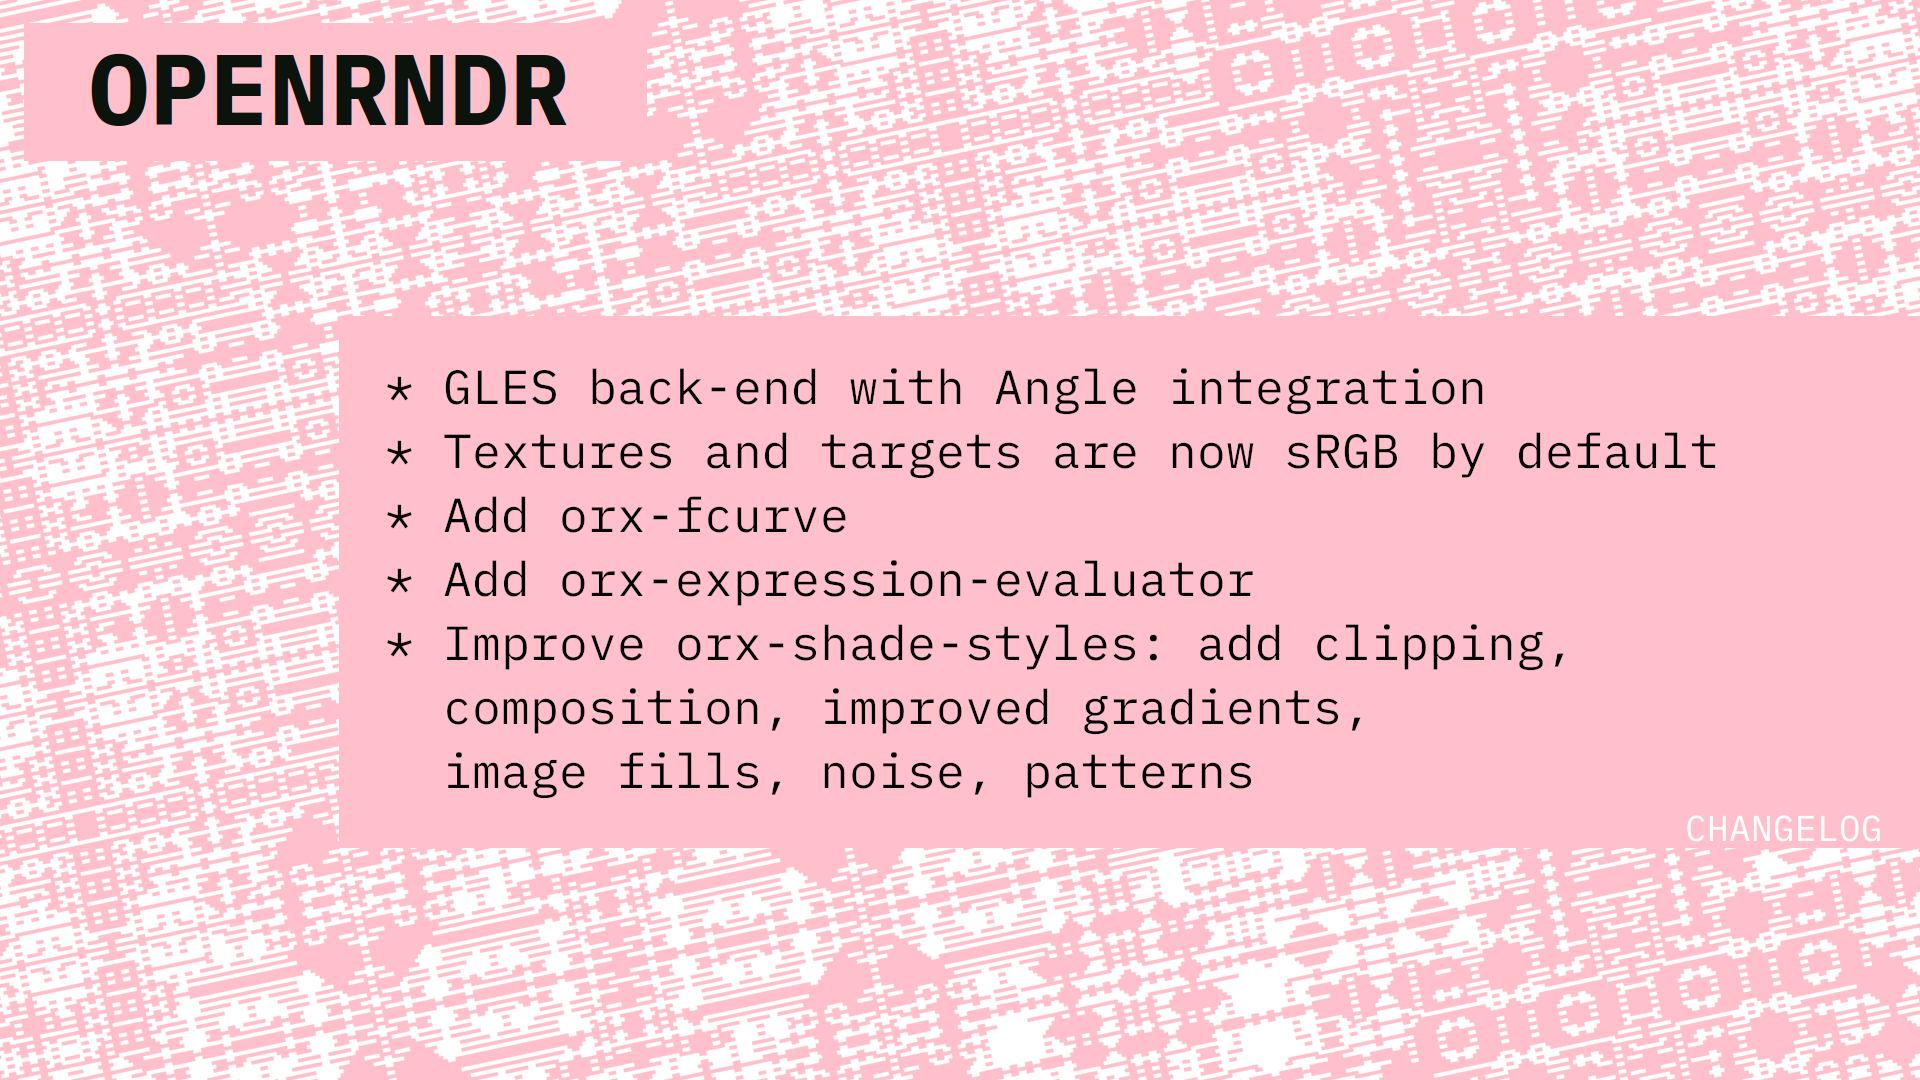
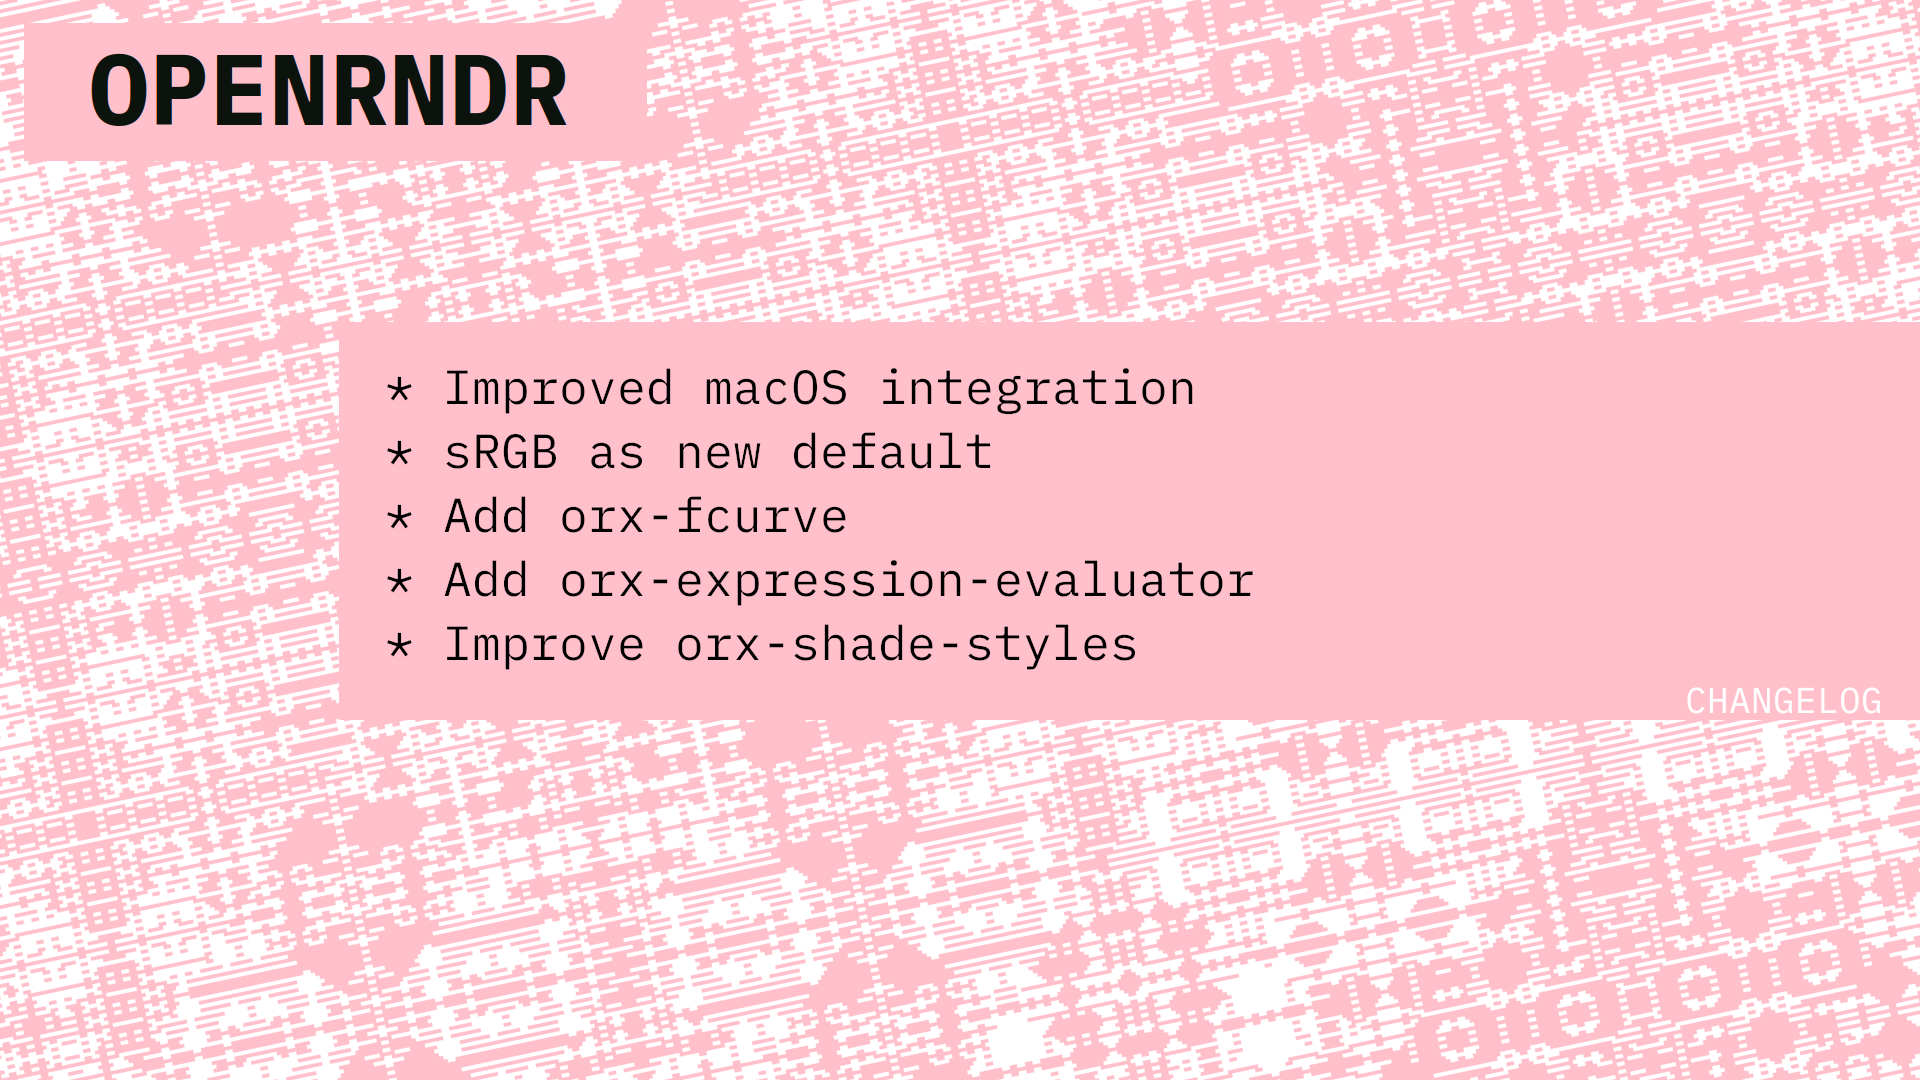
Add OPENRNDR

diff --git a/openrndr/openrndr.md b/openrndr/openrndr.md
@@ -8,7 +8,8 @@
 
 **Playful for prototypes. Serious for production.**
 
-OPENRNDR is an open source framework for creative coding, written in Kotlin that simplifies writing real-time interactive software.
+OPENRNDR is a Kotlin cross-platform open source framework for creative coding and
+real-time interaction.
 
 ### Further links
 
@@ -25,10 +26,11 @@ OPENRNDR is an open source framework for creative coding, written in Kotlin that
 - Add GLES back-end with Angle integration improving OPENRNDR in Apple computers.
 - Make textures and targets use sRGB by default.
 - Add [orx-fcurve](https://github.com/openrndr/orx/tree/master/orx-fcurve) which
-  facilitates creating 1 dimensional function curves from SVG's path language-like strings.
+  facilitates creating 1 dimensional function curves for animation and other
+  uses.
 - Add [orx-expression-evaluator](https://github.com/openrndr/orx/tree/master/orx-expression-evaluator): tools to evaluate strings containing mathematical expressions.
 - Improve [orx-shade-styles](https://github.com/openrndr/orx/tree/master/orx-shade-styles) with clipping, composition, gradients, image fills, noise, patterns and more.
-- Over 900 commits with new features, updates and fixes since May 1st, 2024.
+- Over 900 commits with new features, updates and fixes since May 2024.
 
 ---
 
@@ -44,6 +46,6 @@ OPENRNDR is an open source framework for creative coding, written in Kotlin that
 
 ## Presence at the LGM
 
-- Abe Pazos Solatie - Graphics and Creative Coding on the JVM. 
+- [Abe Pazos Solatie](https://hamoid.com) - Graphics and Creative Coding on the JVM. 
   BoF, Saturday 31st at 13:20.
 
